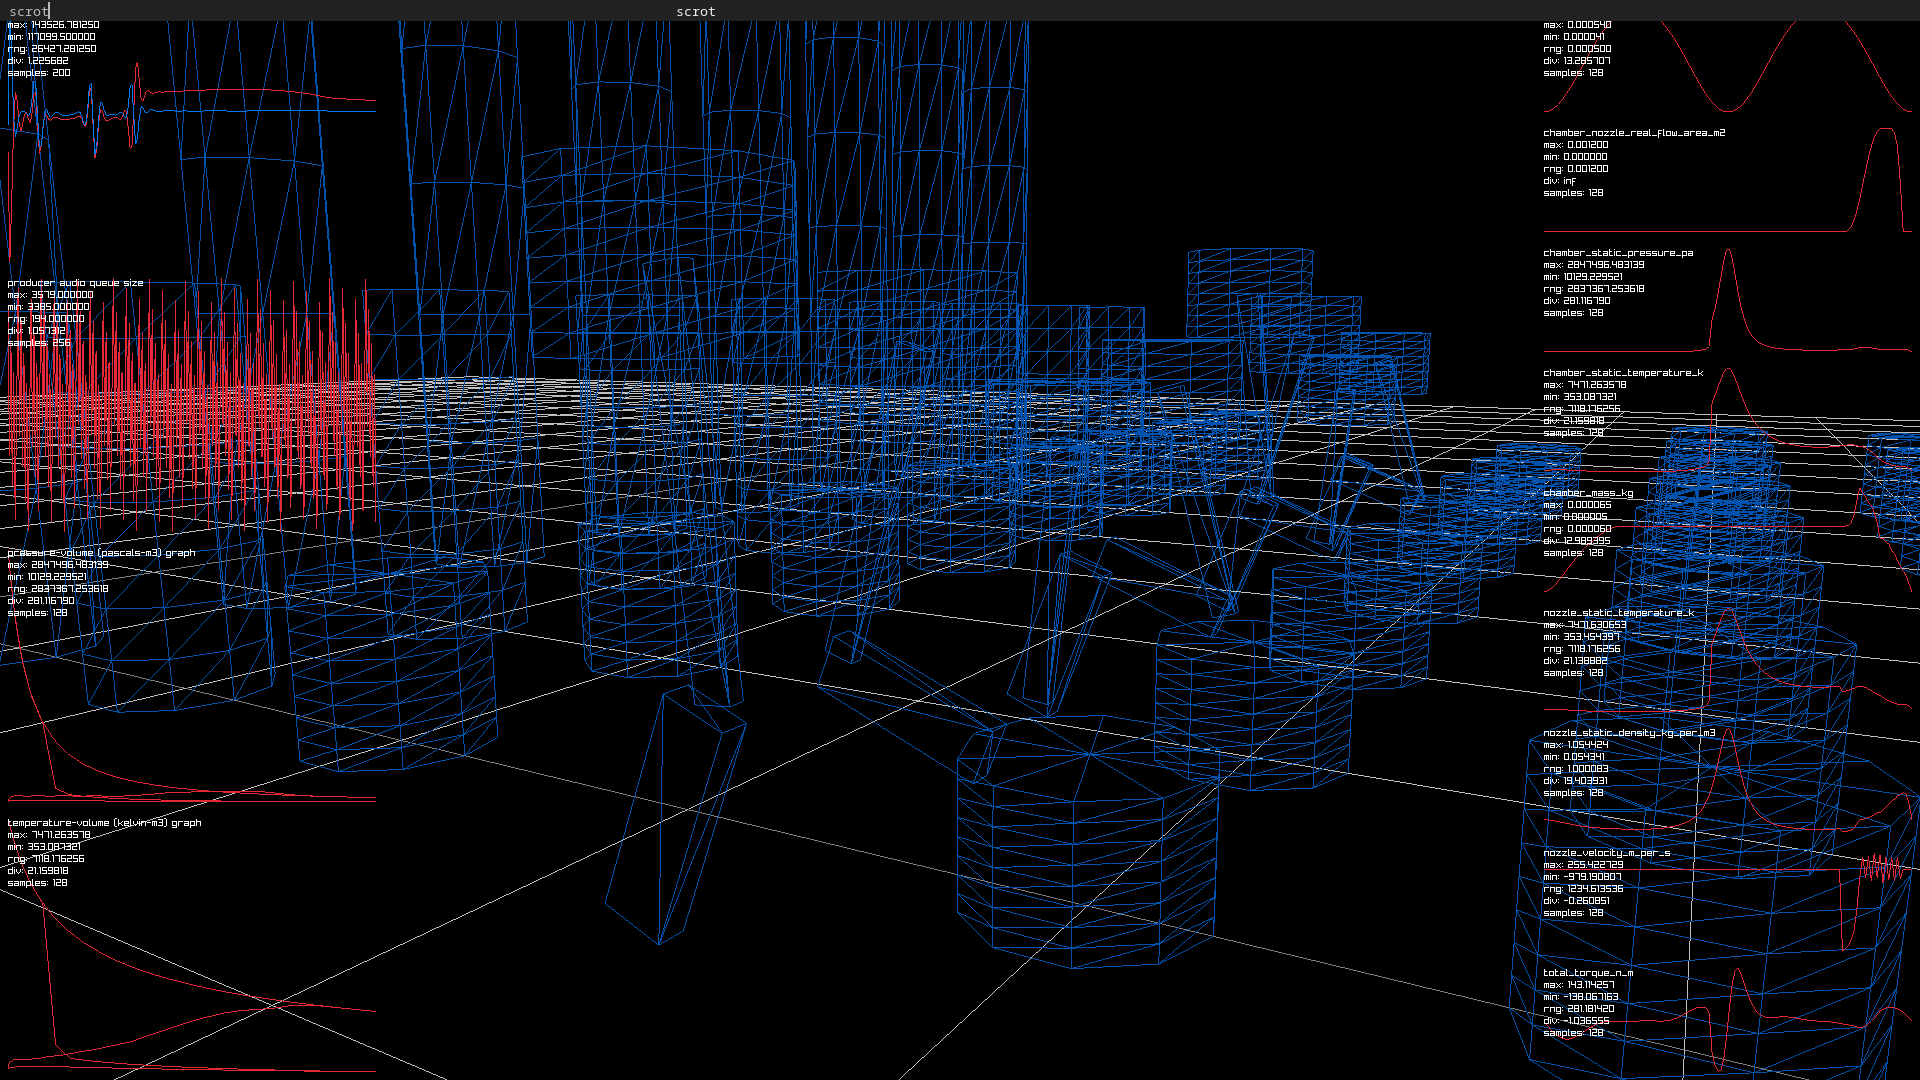
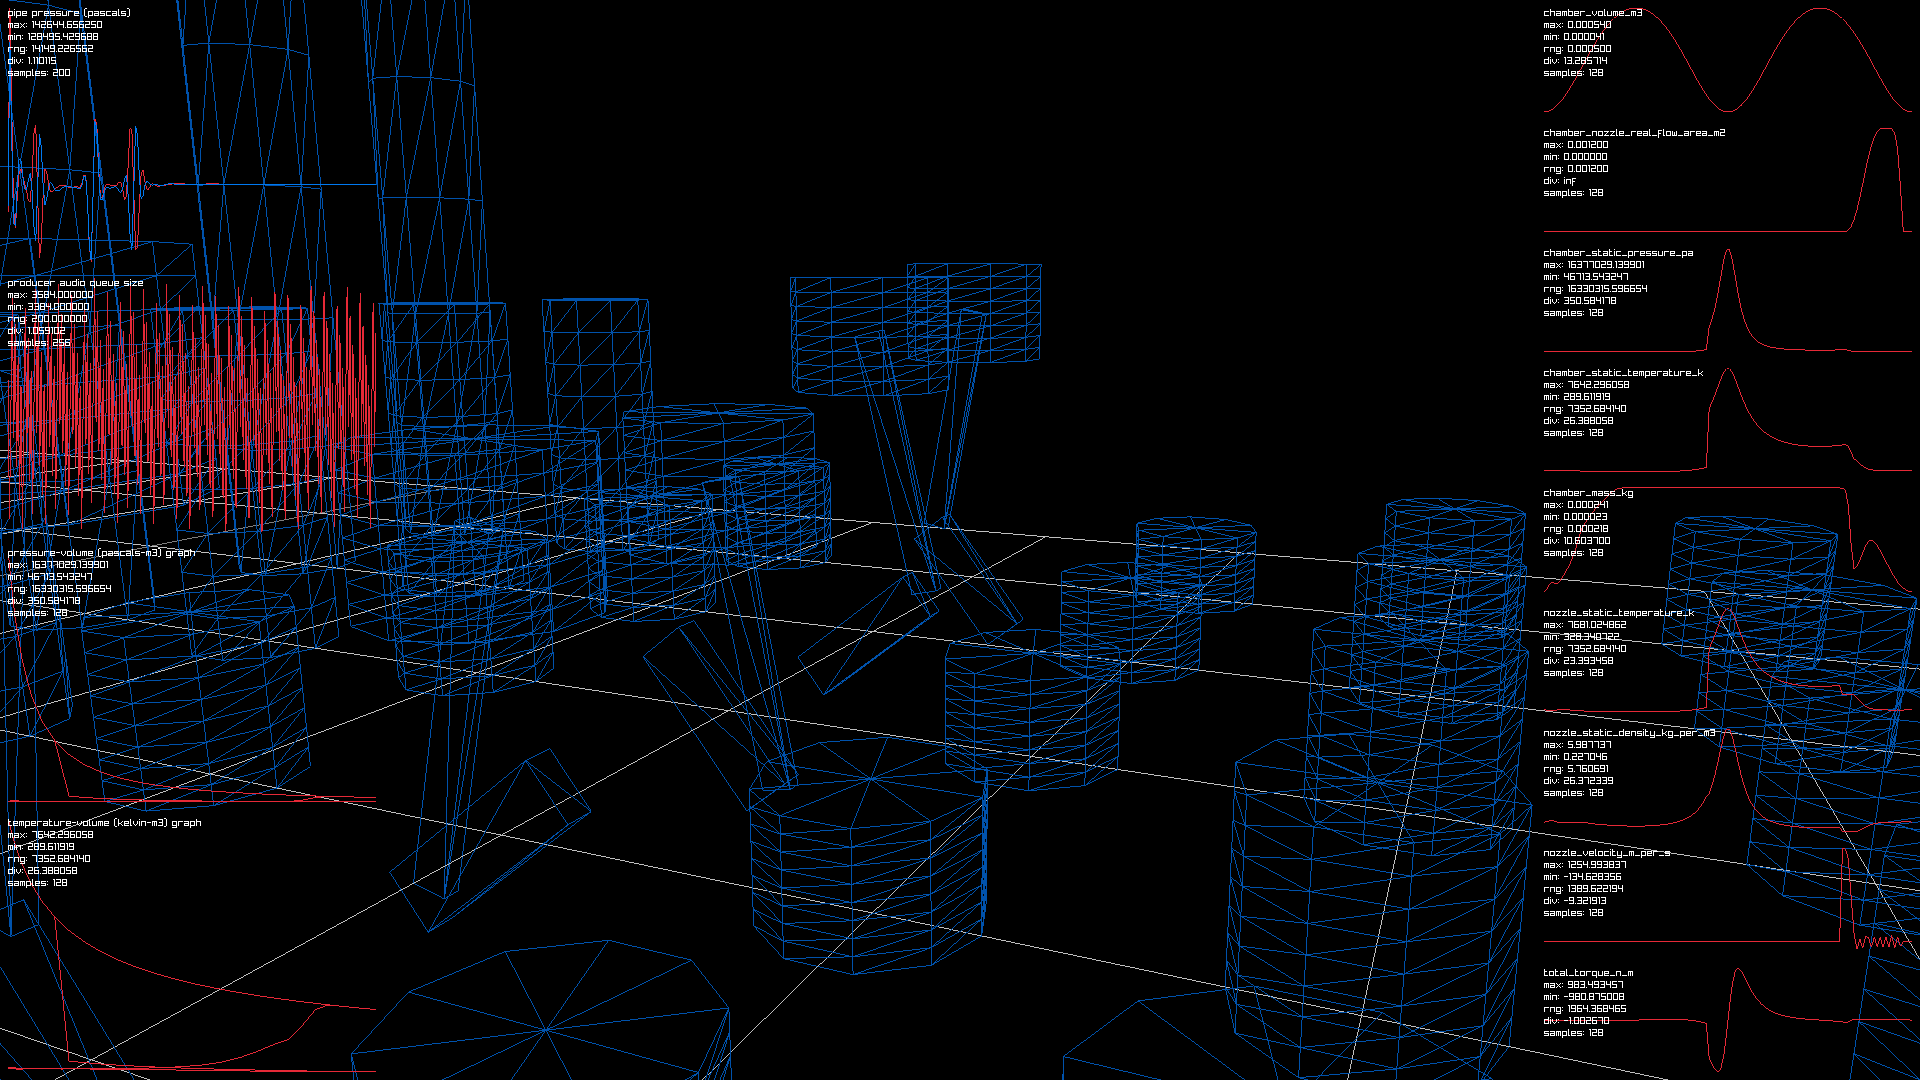
new img

diff --git a/gui.cc b/gui.cc
@@ -32,7 +32,7 @@ static constexpr size_t g_producer_queue_size = 4096;
 static constexpr size_t g_history_size = 256;
 static constexpr Color g_plot_border_color = GRAY;
 static constexpr Color g_plot_signal_colors[] = { RED, BLUE, GREEN, PURPLE, BROWN, YELLOW };
-static constexpr float g_grid_steps = 32.0f;
+static constexpr float g_grid_steps = 16.0f;
 static constexpr float g_grid_step_size = 0.15f;
 static constexpr size_t g_signal_samples = 128;
 static constexpr size_t g_signal_default_samples = -1;
